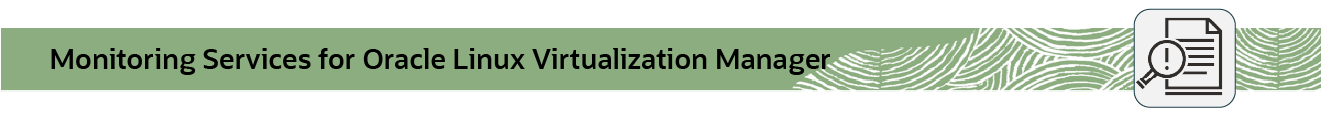
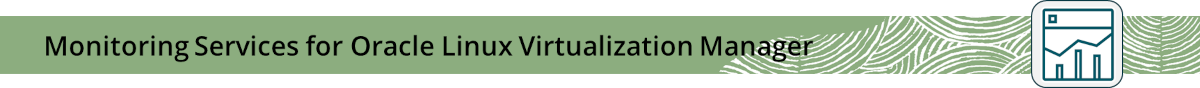
Updated OLVM track layout with new and updated sections and graphics and re ordered posts

diff --git a/content/tracks/olvm/index.md b/content/tracks/olvm/index.md
@@ -32,30 +32,40 @@ aliases:
 
 ---
 
-{{< figure src="/img/olvm/OLVM-admin-section2.png" alt="Administration and Deployment section banner" >}}
+{{< figure src="/img/olvm/OLVM-deploy-section3.png" alt="Deployment section banner" >}}
 
-## Administration and Deployment
-{{< card2 limit=30 tag="/tags/olvm-admin" >}}
+## Deployment
+{{< card2 limit=30 tag="/tags/olvm-deploy" >}}
 
-{{< figure src="/img/olvm/OLVM-vm-section2.png" alt="Managing Virtual Machines section banner" >}}
-
-## Managing Virtual Machines
-{{< card2 limit=30 tag="/tags/olvm-manage" >}}
-
-{{< figure src="/img/olvm/OLVM-storage-section2.png" alt="Managing Virtual Storage section banner" >}}
+{{< figure src="/img/olvm/OLVM-storage-section3.png" alt="Managing Virtual Storage section banner" >}}
 
 ## Managing Storage
 {{< card2 limit=30 tag="/tags/olvm-storage" >}}
 
-{{< figure src="/img/olvm/OLVM-backup-section2.png" alt="Backup and Recovery section banner" >}}
+{{< figure src="/img/olvm/OLVM-migrate-section3.png" alt="Migrating to OLVM section banner" >}}
 
-## Backup and Recovery
+## Managing Migration to Oracle Linux Virtualization Manager
+{{< card2 limit=30 tag="/tags/olvm-migrate" >}}
+
+{{< figure src="/img/olvm/OLVM-admin-section3.png" alt="Administration section banner" >}}
+
+## Administration
+{{< card2 limit=30 tag="/tags/olvm-admin" >}}
+
+{{< figure src="/img/olvm/OLVM-vm-section3.png" alt="Managing Virtual Machines section banner" >}}
+
+## Managing Virtual Machines
+{{< card2 limit=30 tag="/tags/olvm-vm" >}}
+
+{{< figure src="/img/olvm/OLVM-backup-section3.png" alt="Backup and Disaster Recovery section banner" >}}
+
+## Backup and Disaster Recovery
 {{< card2 limit=30 tag="/tags/olvm-backup" >}}
 
-{{< figure src="/img/olvm/OLVM-monitor-section2.png" alt="Monitoring Services for Oracle Linux Virtualization Manager section banner" >}}
+{{< figure src="/img/olvm/OLVM-monitor-section3.png" alt="Monitoring Services for Oracle Linux Virtualization Manager section banner" >}}
 
 ## Monitoring Services
-{{< card2 limit=30 tag="/tags/olvm-mon" >}}
+{{< card2 limit=30 tag="/tags/olvm-monitor" >}}
 
 {{< figure src="/img/quiz1.png" alt="Oracle Linux Virtualization Manager quiz section banner" >}}
 
@@ -66,3 +76,4 @@ Test your skills on what you have learned so far with this quiz.
 {{< button href="https://apexapps.oracle.com/pls/apex/f?p=ST_QUIZ:200:0::::P200_QUIZ_KEY:CMMO0UH" target="_blank" >}}
 Take the quiz
 {{< /button >}}
+

diff --git a/content/posts/olvm/post-9/index.md b/content/posts/olvm/post-9/index.md
@@ -1,9 +1,9 @@
 ---
 title: "Use the Backup API for VM Backups"
-date: 2021-07-11
+date: 2021-12-21
 draft: false
 summary: "Learn how to use the Backup API to backup Oracle Linux Virtualization Manager VMs."
-tags: ["olvm", "video","olvm-admin"]
+tags: ["olvm", "video","olvm-backup"]
 showDate: true
 ---
 

diff --git a/content/posts/olvm/post-7/index.md b/content/posts/olvm/post-7/index.md
@@ -1,9 +1,9 @@
 ---
 title: "Configure VLANs"
-date: 2021-07-02
+date: 2021-07-24
 draft: false
 summary: "Learn how to configure VLANs for security and expansion in Oracle Linux Virtualization Manager."
-tags: ["olvm", "video","olvm-admin"]
+tags: ["olvm", "video","olvm-deploy"]
 showDate: true
 ---
 

diff --git a/content/posts/olvm/post-3/index.md b/content/posts/olvm/post-3/index.md
@@ -1,9 +1,9 @@
 ---
 title: "Add a Compute Host"
-date: 2019-11-21
+date: 2021-08-28
 draft: false
 summary: "Learn how to add and remove KVM Compute Hosts in Oracle Linux Virtualization Manager."
-tags: ["olvm", "video","olvm-admin"]
+tags: ["olvm", "video","olvm-deploy"]
 showDate: true
 ---
 

diff --git a/content/posts/olvm/post-18/index.md b/content/posts/olvm/post-18/index.md
@@ -1,9 +1,9 @@
 ---
 title: "Restore a VM from a Snapshot"
-date: 2021-05-26
+date: 2021-04-26
 draft: false
 summary: "Learn to restore a VM from a snapshot in Oracle Linux Virtualization Manager."
-tags: ["olvm", "video","olvm-manage"]
+tags: ["olvm", "video","olvm-vm"]
 showDate: true
 ---
 

diff --git a/content/posts/olvm/post-15/index.md b/content/posts/olvm/post-15/index.md
@@ -1,9 +1,9 @@
 ---
 title: "Create a VM from a Template"
-date: 2020-06-22
+date: 2021-06-13
 draft: false
 summary: "Learn to create a VM from a Template in Oracle Linux Virtualization Manager."
-tags: ["olvm", "video","olvm-manage"]
+tags: ["olvm", "video","olvm-vm"]
 showDate: true
 ---
 

diff --git a/content/posts/olvm/post-27/index.md b/content/posts/olvm/post-27/index.md
@@ -3,7 +3,7 @@ title: "Monitor with Grafana"
 date: 2024-04-08
 draft: false
 summary: "Learn how to access Grafana and view pre-configured dashboards for Oracle Linux Virtualization Manager."
-tags: ["olvm", "video","olvm-mon"]
+tags: ["olvm", "video","olvm-monitor"]
 showDate: true
 ---
 

diff --git a/content/posts/olvm/post-5/index.md b/content/posts/olvm/post-5/index.md
@@ -1,9 +1,9 @@
 ---
 title: "Backup and Restore"
-date: 2020-07-20
+date: 2022-07-20
 draft: false
 summary: "Learn how to backup and restore the Oracle Linux Virtualization Manager engine."
-tags: ["olvm", "video","olvm-admin"]
+tags: ["olvm", "video","olvm-backup"]
 showDate: true
 ---
 

diff --git a/content/posts/olvm/post-4/index.md b/content/posts/olvm/post-4/index.md
@@ -1,9 +1,9 @@
 ---
 title: "Create a VM Network"
-date: 2020-03-24
+date: 2021-08-26
 draft: false
 summary: "Learn how to create a logical network in Oracle Linux Virtualization Manager."
-tags: ["olvm", "video","olvm-admin"]
+tags: ["olvm", "video","olvm-deploy"]
 showDate: true
 ---
 

diff --git a/content/posts/olvm/post-10/index.md b/content/posts/olvm/post-10/index.md
@@ -3,7 +3,7 @@ title: "Deploy Hyper-Converged Architecture"
 date: 2021-08-30
 draft: false
 summary: "Learn to deploy a Oracle Linux Virtualization Manager Hyper-Converged Architecture."
-tags: ["olvm", "video","olvm-admin"]
+tags: ["olvm", "video","olvm-deploy"]
 showDate: true
 ---
 

diff --git a/content/posts/olvm/post-14/index.md b/content/posts/olvm/post-14/index.md
@@ -1,9 +1,9 @@
 ---
 title: "Create a Template"
-date: 2020-06-21
+date: 2021-06-11
 draft: false
 summary: "Learn to create a Template from a VM in Oracle Linux Virtualization Manager."
-tags: ["olvm", "video","olvm-manage"]
+tags: ["olvm", "video","olvm-vm"]
 showDate: true
 ---
 

diff --git a/content/posts/olvm/post-21/index.md b/content/posts/olvm/post-21/index.md
@@ -1,6 +1,6 @@
 ---
 title: "Upload Resources to a Data Storage Domain"
-date: 2020-03-12
+date: 2020-03-01
 draft: false
 summary: "Learn to upload disk image files to a storage domain using Oracle Linux Virtualization Manager."
 tags: ["olvm", "video","olvm-storage"]
